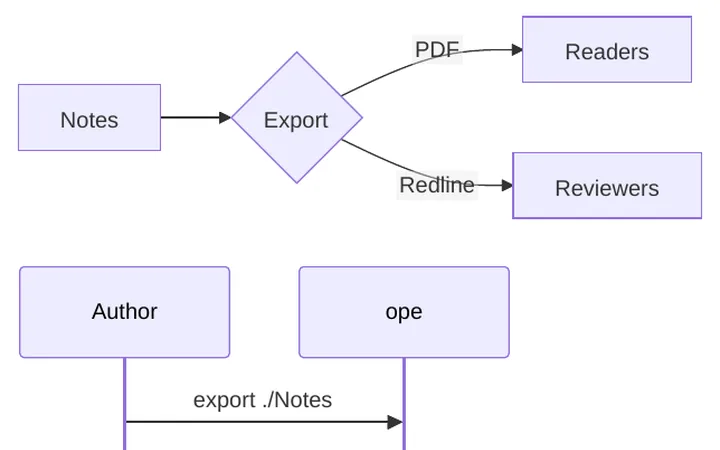
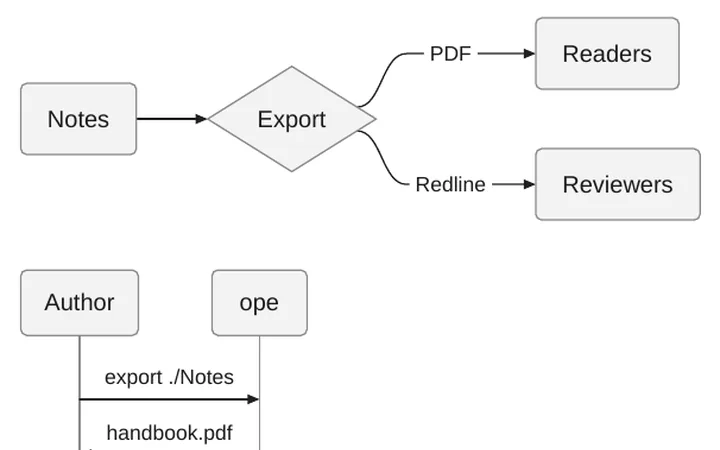
docs: describe Pele as the Mermaid renderer
Rewrite the Mermaid page around Pele, drop the renderer comparison and
its example, and add a short list of differences from mermaid.js. Remove
Node.js from the install, CI and contributing notes, the skill and the
README. Regenerate the CLI reference, llms.txt and the Mermaid
screenshots.

Refs #118

diff --git a/scripts/gen_cli_docs.py b/scripts/gen_cli_docs.py
@@ -61,7 +61,7 @@ ope export ./Vault/Handbook \\
   --version 3.1.0 --date 2026-05-07 \\
   --include "Chapter A" --include "Chapter B" \\
   --disable-plugin meta_bind \\
-  -O mermaid.theme=neutral -O tables.landscape=off""",
+  -O mermaid.landscape=off -O tables.landscape=off""",
     "redline": "ope redline ./Vault/Handbook --from-commit v3.0.0 --to-commit HEAD",
     "setup": "ope setup --check   # report only\nope setup --yes     # install without asking",
     "list-templates": "ope list-templates",
@@ -82,14 +82,7 @@ the template. These keys are read by ope itself:
 | `tables.landscape` | `auto`, `on`, `off` | `auto` | [Tables](../markdown/tables.md#wide-tables) |
 | `tables.landscape_min_cols` | number | `6` | [Tables](../markdown/tables.md#wide-tables) |
 | `mermaid` | `off` | on | [Mermaid](../obsidian/mermaid.md) |
-| `mermaid.renderer` | `mermaid-cli`, `pele` | `mermaid-cli` | [Mermaid](../obsidian/mermaid.md#renderers) |
-| `mermaid.format` | `svg`, `png` | `svg` | [Mermaid](../obsidian/mermaid.md#options) |
-| `mermaid.scale` | number | `3` | [Mermaid](../obsidian/mermaid.md#options) |
 | `mermaid.config` | path to JSON | none | [Mermaid](../obsidian/mermaid.md#options) |
-| `mermaid.theme` | Mermaid theme | none | [Mermaid](../obsidian/mermaid.md#options) |
-| `mermaid.cli` | command | auto | [Mermaid](../obsidian/mermaid.md#options) |
-| `mermaid.puppeteer_config` | path | none | [Mermaid](../obsidian/mermaid.md#options) |
-| `mermaid.trim` | `on`, `off` | `on` | [Mermaid](../obsidian/mermaid.md#options) |
 | `mermaid.max_height` | CSS length | none | [Mermaid](../obsidian/mermaid.md#options) |
 | `mermaid.landscape` | `on`, `off` | `on` | [Mermaid](../obsidian/mermaid.md#wide-diagrams) |
 | `mermaid.landscape_ratio` | number | `1.4` | [Mermaid](../obsidian/mermaid.md#wide-diagrams) |

diff --git a/scripts/render_examples.py b/scripts/render_examples.py
@@ -19,7 +19,7 @@ Run from the repository root:
     uv run python scripts/render_examples.py             # everything
     uv run python scripts/render_examples.py callouts    # some examples
 
-Needs ``pdftoppm`` (poppler) and, for the Mermaid example, Node.js. The
+Needs ``pdftoppm`` (poppler). The
 Redline screenshots come from ``scripts/render_redline_examples.py``.
 """
 
@@ -97,9 +97,6 @@ SETTINGS: dict[str, Example] = {
 #: Extra images made from an existing example folder with other settings.
 VARIANTS: dict[str, Example] = {
     "line-breaks-soft": Example(folder="line-breaks", args=["-O", "line_breaks=soft"]),
-    "mermaid-renderers-pele": Example(
-        folder="mermaid-renderers", args=["-O", "mermaid.renderer=pele"]
-    ),
 }
 
 

diff --git a/scripts/render_home.py b/scripts/render_home.py
@@ -20,7 +20,7 @@ output changed. Run from the repository root:
 
     uv run python scripts/render_home.py
 
-Needs ``pdftoppm`` (poppler) and Node.js for the Mermaid diagram.
+Needs ``pdftoppm`` (poppler).
 """
 
 from __future__ import annotations

diff --git a/docs/obsidian/mermaid.md b/docs/obsidian/mermaid.md
@@ -1,11 +1,11 @@
 ---
 title: Mermaid
-description: Mermaid code blocks rendered to SVG or PNG diagrams with mermaid-cli, or with Pele without Node.js.
+description: Mermaid code blocks drawn as SVG diagrams by Pele, inside ope, without Node.js or a browser.
 ---
 
 # Mermaid
 
-` ```mermaid ` blocks are drawn with [mermaid-cli](https://github.com/mermaid-js/mermaid-cli). ope uses `mmdc` if it is on the `PATH`, else `npx -y @mermaid-js/mermaid-cli@11.4.2` when Node.js is installed. Without either, the blocks stay code blocks and the export prints a warning. A block that fails to render also stays code. `-O mermaid.renderer=pele` draws the diagrams with [Pele](#renderers) instead, which needs no Node.js.
+` ```mermaid ` blocks are drawn as SVG by [Pele](https://pele.run), a Mermaid renderer in TypeScript by the Obsidian team. ope runs it in the JavaScript engine that also runs [DataviewJS](../plugins/dataview.md), so it needs no Node.js, npm or browser. It reads Mermaid 12.1 syntax and draws every diagram type Mermaid has, in a few milliseconds per diagram. A block Pele cannot draw, for example because of a syntax error, stays a code block and the export prints a line starting with `Warning:`.
 
 <div class="ope-example" markdown>
 <div markdown>
@@ -24,78 +24,35 @@ description: Mermaid code blocks rendered to SVG or PNG diagrams with mermaid-cl
 </div>
 </div>
 
-The default output is SVG, so text stays sharp and can be searched. Mermaid normally puts labels in HTML `<foreignObject>` elements, which WeasyPrint does not draw, so for SVG output ope always sets `htmlLabels: false`. Use PNG for a diagram type that needs HTML labels.
+The output is SVG, so text stays sharp and can be searched.
 
 ## Options
 
 | Option | Effect | Default |
 | ------ | ------ | ------- |
 | `-O mermaid=off` | Keep Mermaid blocks as code. | on |
-| `-O mermaid.renderer=mermaid-cli\|pele` | What draws the diagrams, see [Renderers](#renderers). | `mermaid-cli` |
-| `-O mermaid.format=svg\|png` | Output format. | `svg` |
-| `-O mermaid.scale=N` | Pixel density of PNG output. The image keeps its natural size. | `3` |
-| `-O mermaid.config=PATH` | JSON [Mermaid config](https://mermaid.js.org/config/schema-docs/config.html) (`theme`, `themeVariables`, ...). | none |
-| `-O mermaid.theme=NAME` | Shortcut for `theme`: `default`, `neutral`, `dark`, `forest`, `base`. | none |
-| `-O mermaid.cli=COMMAND` | Command that runs mermaid-cli. | auto |
-| `-O mermaid.puppeteer_config=PATH` | Puppeteer config passed as `-p`. | none |
-| `-O mermaid.trim=on\|off` | Trim the empty space around diagrams. | `on` |
+| `-O mermaid.config=PATH` | JSON [Mermaid config](https://mermaid.js.org/config/schema-docs/config.html), such as `themeVariables.fontSize`. | none |
 | `-O mermaid.max_height=LENGTH` | Largest height, such as `10cm`. Taller diagrams are scaled down. | none |
 | `-O mermaid.landscape=on\|off` | Put wide diagrams on landscape pages. | `on` |
 | `-O mermaid.landscape_ratio=R` | Width to height ratio from which a diagram that has to shrink goes to landscape. | `1.4` |
 | `-O mermaid.landscape_min_font=PT` | Smallest text size a diagram may shrink to on a portrait page before it goes to landscape, or to fit a tall diagram on one page. | `7` |
 | `-O mermaid.fit=on\|off` | Scale or split diagrams that are taller than the page. | `on` |
 
-A template can set a base config with the `mermaid` key in `template.yaml` or `Template.mermaid_config()`. `mermaid.config` is merged over it, then `mermaid.theme`.
+A template can set a base config with the `mermaid` key in `template.yaml` or `Template.mermaid_config()`. `mermaid.config` is merged over it.
 
 ```bash
 ope export ./Notes -O mermaid.config=mermaid.json
 ```
 
 ```json
-{ "theme": "base", "themeVariables": { "primaryColor": "#e8eef5", "pie1": "#2c5282" } }
+{ "themeVariables": { "fontSize": "14px", "fontFamily": "Georgia, serif" } }
 ```
 
-## Renderers
+Earlier versions drew diagrams with mermaid-cli, which needed Node.js and a headless Chromium. ope no longer uses it. Its options `mermaid.renderer`, `mermaid.theme`, `mermaid.format`, `mermaid.scale`, `mermaid.cli`, `mermaid.puppeteer_config` and `mermaid.trim` have no effect, and the export prints a warning when one is set. `mermaid.renderer=pele` is accepted without a warning.
 
-`-O mermaid.renderer` picks what draws the diagrams.
+## Colors and fonts
 
-- `mermaid-cli` (default) is Mermaid itself, run by Node.js in a headless Chromium. Diagrams look as they do in Obsidian.
-- `pele` is [Pele](https://pele.run), a Mermaid renderer in TypeScript by the Obsidian team. It reads Mermaid 12.1 syntax and draws every diagram type Mermaid has, with its own layout and style. ope runs it in the JavaScript engine that also runs [DataviewJS](../plugins/dataview.md), so it needs no Node.js, npm or browser, and it is much faster: a few milliseconds per diagram instead of seconds for a whole document.
-
-```bash
-ope export ./Notes -O mermaid.renderer=pele
-```
-
-The same note with both renderers:
-
-<div class="ope-example" markdown>
-<div markdown>
-<p class="ope-label">mermaid-cli</p>
-
-![A flowchart, a sequence diagram and a pie chart drawn by mermaid-cli](../img/features/mermaid-renderers.png)
-
-</div>
-<div markdown>
-<p class="ope-label">Pele</p>
-
-![The same diagrams drawn by Pele](../img/features/mermaid-renderers-pele.png)
-
-</div>
-</div>
-
-??? example "Markdown of the note"
-
-    ````markdown
-    --8<-- "examples/mermaid-renderers/mermaid-renderers.md"
-    ````
-
-Pele always writes SVG, so `mermaid.format`, `mermaid.scale`, `mermaid.cli` and `mermaid.puppeteer_config` only apply to mermaid-cli. Its SVG has an exact size with a margin of 8 px, so it needs no trimming pass. Wide and tall diagrams go to landscape pages or are scaled and cut as described below, as with mermaid-cli.
-
-A diagram Pele cannot draw, for example because of a syntax error or syntax it does not know, goes to mermaid-cli when Node.js or `mmdc` is installed. Otherwise it stays a code block and the export prints a line starting with `Warning:`.
-
-### Colors and fonts with Pele
-
-Pele draws with its own neutral style and ignores Mermaid themes (`theme`, `themeVariables`, `themeCSS`). Its colors are the CSS variables listed under [Theming](https://pele.run/theming), such as `--pele-fg`, `--pele-surface`, `--pele-border`, `--pele-line`, `--pele-accent` and `--pele-series-1` to `--pele-series-8`. WeasyPrint does not resolve CSS variables in SVG, so ope writes their values into the SVG. They come from the template's CSS:
+Pele draws with its own neutral style. Its colors are the CSS variables listed under [Theming](https://pele.run/theming), such as `--pele-fg`, `--pele-surface`, `--pele-border`, `--pele-line`, `--pele-accent` and `--pele-series-1` to `--pele-series-8`. WeasyPrint does not resolve CSS variables in SVG, so ope writes their values into the SVG. They come from the template's CSS:
 
 - The label font is the `font-family` of `body`, the monospace font the one of `code` or `pre`, and the text color the `color` of `body`. Diagrams use the font of the document.
 - `themeVariables.fontFamily` in the Mermaid config sets the label font too.
@@ -112,13 +69,23 @@ Pele draws with its own neutral style and ignores Mermaid themes (`theme`, `them
 
 Pele needs the width of every label to lay a diagram out. ope measures them with Pango, the text engine WeasyPrint uses, in the font of the PDF, so labels fit their boxes in any font.
 
-The Pele build is part of ope (version 1.6.0, MIT license, see the license header of `obsidian_pdf_exporter/core/assets/pele.js`). `scripts/update_pele.py` in the repository replaces it with another version and checks it against the hash the npm registry publishes. Pele's links and images are turned off.
+## Differences from Mermaid
+
+Pele reads the same syntax as Mermaid, but it is not mermaid.js. A diagram can look different from the one in Obsidian:
+
+- Pele has its own layout, so boxes and lines can be placed differently.
+- Mermaid themes (`theme`, `themeVariables` colors, `themeCSS`) and `%%{init}%%` theme settings are not used. Map colors with `--pele-*` variables in the template instead, see [Colors and fonts](#colors-and-fonts).
+- `layout: elk` is not used. Pele always lays a diagram out on its own.
+- Links and images in diagrams are turned off.
+- `<br>` and `</br>` both break a label into lines.
+
+The Pele build is part of ope (version 1.6.0, MIT license, see the license header of `obsidian_pdf_exporter/core/assets/pele.js`). `scripts/update_pele.py` in the repository replaces it with another version and checks it against the hash the npm registry publishes. CI checks that the stored build is the pinned one.
 
 ## Diagram size
 
 A diagram keeps its natural size and only shrinks when it is wider than the text. `mermaid.max_height` scales down taller ones. Other sizes belong in the template's CSS: every diagram has the classes `doc-image`, `mermaid` and `mermaid-<type>`, see [CSS reference](../templating/css-reference.md#mermaid-diagrams).
 
-Mermaid leaves empty space around some diagram types. ope trims it to a margin of 8 px. PNG images are cropped. For SVG, mermaid-cli renders a second, transparent PNG of each diagram at its natural size to find the visible area, strokes included, and ope shrinks the `viewBox`. That takes a few seconds, `-O mermaid.trim=off` skips it.
+Pele gives every diagram an exact size with a margin of 8 px, so there is no empty space to trim.
 
 `%%` comment lines in a block are removed before rendering.
 
@@ -176,11 +143,4 @@ A diagram taller than the page would run past the bottom margin. ope keeps every
 </div>
 </div>
 
-Every part holds the whole drawing and shows only its band of it, so a search in the PDF also finds the text of the hidden bands. PNG diagrams cannot be cut and are always scaled. Fitting needs a second layout of the document, which only runs when a diagram is too tall. `-O mermaid.fit=off` turns it off, `mermaid.max_height` gives all diagrams a smaller limit.
-
-## Notes on mermaid-cli
-
-- WeasyPrint clips text centered in a semi-transparent group. Gantt axis labels are drawn that way, so ope adds `.grid .tick { opacity: 1 }` to the `themeCSS` of SVG diagrams.
-- Wrapped labels in timeline diagrams carry a line offset twice. ope removes the outer one, so the text stays in its box.
-- Flowchart edge labels use `edgeLabelBackground`. With the `base` theme it can look purple. Set `themeVariables.edgeLabelBackground` to change it.
-- When running as root (in a CI container), Chromium needs `--no-sandbox`. ope passes it in that case.
+Every part holds the whole drawing and shows only its band of it, so a search in the PDF also finds the text of the hidden bands. Fitting needs a second layout of the document, which only runs when a diagram is too tall. `-O mermaid.fit=off` turns it off, `mermaid.max_height` gives all diagrams a smaller limit.

diff --git a/skills/obsidian-pdf-exporter/SKILL.md b/skills/obsidian-pdf-exporter/SKILL.md
@@ -31,7 +31,7 @@ On Windows PowerShell:
 powershell -ExecutionPolicy ByPass -c "irm https://uvx.sh/obsidian-pdf-exporter/install.ps1 | iex; ope setup --yes"
 ```
 
-`ope setup` uses the platform package manager (apt, dnf, pacman, zypper, apk, brew, winget) and may need sudo. If it cannot install, report the command it printed to the user instead of working around it. Mermaid diagrams also need Node.js (`npx`) or `mmdc`; without them Mermaid blocks stay code.
+`ope setup` uses the platform package manager (apt, dnf, pacman, zypper, apk, brew, winget) and may need sudo. If it cannot install, report the command it printed to the user instead of working around it. Mermaid diagrams need nothing else: they are drawn by Pele inside ope.
 
 ## Export
 
@@ -40,14 +40,14 @@ ope export ./Vault/Handbook                       # -> ./.export/Handbook.pdf
 ope export ./Vault/Handbook -o out/handbook.pdf \
   --title "Team handbook" --subtitle "How we work" --version 1.2.0 --date 2026-04-01
 ope export ./Vault/Handbook --include "Part A" --exclude Drafts --no-toc
-ope export ./Vault/Handbook -O tables.landscape=off -O mermaid.theme=neutral
+ope export ./Vault/Handbook -O tables.landscape=off -O mermaid.landscape=off
 ope export ./Vault/Handbook --disable-plugin dataview
 ```
 
 - `ROOT` is a folder. Every subfolder becomes a numbered section, and `Folder/Folder.md` (the folder note) is its text. `ROOT/ROOT.md` is the first text. To export a single note, put it in its own folder named like the note.
 - Links and embeds are looked up in the whole vault (the folder with `.obsidian`, else the git root).
 - Without `--version`, a folder in a git repository shows the short commit hash as version.
-- Other `-O` keys: `line_breaks=hard|soft`, `links.outside=text|italic`, `footnotes=page|end`, `mermaid=off`, `mermaid.renderer=mermaid-cli|pele`, `mermaid.format=svg|png`, `mermaid.landscape=off`, `excalidraw.auto_export=off`, `citations.bibliography=refs.bib`, `citations.csl=style.csl`, `tables.landscape_min_cols=N`. List: https://spenhouet.com/obsidian-pdf-exporter/reference/cli/
+- Other `-O` keys: `line_breaks=hard|soft`, `links.outside=text|italic`, `footnotes=page|end`, `mermaid=off`, `mermaid.config=mermaid.json`, `mermaid.landscape=off`, `excalidraw.auto_export=off`, `citations.bibliography=refs.bib`, `citations.csl=style.csl`, `tables.landscape_min_cols=N`. List: https://spenhouet.com/obsidian-pdf-exporter/reference/cli/
 - Exit codes: `0` ok, `1` export failed, `2` bad arguments (for example an unknown template).
 
 Lines starting with `Warning:` name content that could not be rendered: an embed that was not found, a canvas embed or a PDF that cannot be opened (kept as a link), a plugin code block nobody renders (`tasks`, `ad-note`, ...), a Dataview query or DataviewJS script that failed. `Warning: link to "Note" ... points outside the PDF, kept as text` names a link to a note that is not part of the PDF; it is plain text in the PDF (`-O links.outside=italic` shows it in italics). Report them to the user.

diff --git a/docs/reference/cli.md b/docs/reference/cli.md
@@ -120,7 +120,7 @@ ope export ./Vault/Handbook \
   --version 3.1.0 --date 2026-05-07 \
   --include "Chapter A" --include "Chapter B" \
   --disable-plugin meta_bind \
-  -O mermaid.theme=neutral -O tables.landscape=off
+  -O mermaid.landscape=off -O tables.landscape=off
 ```
 
 ## `redline`
@@ -168,14 +168,7 @@ the template. These keys are read by ope itself:
 | `tables.landscape` | `auto`, `on`, `off` | `auto` | [Tables](../markdown/tables.md#wide-tables) |
 | `tables.landscape_min_cols` | number | `6` | [Tables](../markdown/tables.md#wide-tables) |
 | `mermaid` | `off` | on | [Mermaid](../obsidian/mermaid.md) |
-| `mermaid.renderer` | `mermaid-cli`, `pele` | `mermaid-cli` | [Mermaid](../obsidian/mermaid.md#renderers) |
-| `mermaid.format` | `svg`, `png` | `svg` | [Mermaid](../obsidian/mermaid.md#options) |
-| `mermaid.scale` | number | `3` | [Mermaid](../obsidian/mermaid.md#options) |
 | `mermaid.config` | path to JSON | none | [Mermaid](../obsidian/mermaid.md#options) |
-| `mermaid.theme` | Mermaid theme | none | [Mermaid](../obsidian/mermaid.md#options) |
-| `mermaid.cli` | command | auto | [Mermaid](../obsidian/mermaid.md#options) |
-| `mermaid.puppeteer_config` | path | none | [Mermaid](../obsidian/mermaid.md#options) |
-| `mermaid.trim` | `on`, `off` | `on` | [Mermaid](../obsidian/mermaid.md#options) |
 | `mermaid.max_height` | CSS length | none | [Mermaid](../obsidian/mermaid.md#options) |
 | `mermaid.landscape` | `on`, `off` | `on` | [Mermaid](../obsidian/mermaid.md#wide-diagrams) |
 | `mermaid.landscape_ratio` | number | `1.4` | [Mermaid](../obsidian/mermaid.md#wide-diagrams) |

diff --git a/docs/templating/folders.md b/docs/templating/folders.md
@@ -48,9 +48,8 @@ running_html: header.html        # HTML put right after <body>
 page_css: page.css               # CSS put into <head> after the template CSS
 assets: [logo.svg, fonts/Inter.woff2]  # default: every other file in the folder
 mermaid:                         # base Mermaid config for diagrams
-  theme: base
   themeVariables:
-    primaryColor: "#e8eef5"
+    fontSize: 14px
 ```
 
 | Key | Default | Meaning |
@@ -61,7 +60,7 @@ mermaid:                         # base Mermaid config for diagrams
 | `running_html` | none | HTML for the running header and footer. It is put right after `<body>`, so its elements can be moved into margin boxes. |
 | `page_css` | none | CSS for the page: `@page` rules and running elements. |
 | `assets` | every file in the folder that is not CSS, YAML, HTML or Markdown, plus a sibling `assets/` folder | Files copied into the build folder next to the CSS. |
-| `mermaid` | none | Base [Mermaid config](../obsidian/mermaid.md#options). `-O mermaid.config` and `-O mermaid.theme` are merged over it. |
+| `mermaid` | none | Base [Mermaid config](../obsidian/mermaid.md#options). `-O mermaid.config` is merged over it. Colors of diagrams come from `--pele-*` variables in the CSS. |
 
 Without `running_html` and `page_css` the template has no header or footer. The `default` header and footer come from Python and are not part of a folder template. A folder template that should have them writes them in `page.css`, as in the [recipes](recipes.md).
 

diff --git a/docs/templating/python.md b/docs/templating/python.md
@@ -32,7 +32,7 @@ class MyTemplate(Template):
 | `get_css()` | Before the export, without context | The CSS source. Written to `<build>/<name>.css`. |
 | `assets()` | Before the export | Files written into the build folder, for relative `url(...)` in the CSS. |
 | `decorations(ctx)` | After the HTML hooks | Running header and footer HTML and page CSS. `None` for none. |
-| `mermaid_config(ctx)` | Before Mermaid runs | Base Mermaid config. `-O mermaid.config` and `-O mermaid.theme` are merged over it. |
+| `mermaid_config(ctx)` | Before Mermaid runs | Base Mermaid config. `-O mermaid.config` is merged over it. |
 | `process_markdown(content, ctx)` | Right before pandoc | The assembled Markdown of the whole document, after all steps and plugins. |
 | `process_html(html, ctx)` | After pandoc and the HTML steps | The full HTML document, before decorations. |
 

diff --git a/docs/getting-started/installation.md b/docs/getting-started/installation.md
@@ -76,7 +76,6 @@ When WeasyPrint still cannot find the libraries, set `OBSIDIAN_PDF_GTK_PATH` to 
 | Tool | Needed for |
 | ---- | ---------- |
 | git | [Redline](../redline/index.md), the version label from the commit hash, and the vault root for Dataview. |
-| Node.js (`npx`) or `mmdc` | [Mermaid](../obsidian/mermaid.md) diagrams with mermaid-cli, the default renderer. Without it, Mermaid blocks stay code blocks. `-O mermaid.renderer=pele` draws them without Node.js. |
 
 ## In CI
 
@@ -100,7 +99,7 @@ jobs:
           path: handbook.pdf
 ```
 
-Mermaid diagrams need Node.js on the runner, which `ubuntu-latest` has. On a runner without it, add `-O mermaid.renderer=pele`.
+[Mermaid](../obsidian/mermaid.md) diagrams are drawn inside ope, so the runner needs no Node.js or browser.
 
 ## Check the install
 

diff --git a/README.md b/README.md
@@ -44,7 +44,7 @@ curl -LsSf uvx.sh/obsidian-pdf-exporter/install.sh | sh && ope setup --yes
 powershell -ExecutionPolicy ByPass -c "irm https://uvx.sh/obsidian-pdf-exporter/install.ps1 | iex; ope setup --yes"
 ```
 
-`ope setup` installs the native libraries WeasyPrint needs and pandoc. See [Installation](https://spenhouet.com/obsidian-pdf-exporter/getting-started/installation/) for every OS, uv, pip and CI.
+`ope setup` installs the native libraries WeasyPrint needs and pandoc. Mermaid diagrams are drawn inside ope, so Node.js and a browser are not needed. See [Installation](https://spenhouet.com/obsidian-pdf-exporter/getting-started/installation/) for every OS, uv, pip and CI.
 
 ## Quick start
 

diff --git a/CONTRIBUTING.md b/CONTRIBUTING.md
@@ -601,8 +601,8 @@ Generated content:
   from the example vault in `examples/`. Each folder there (not starting
   with `_`) is one example and becomes `docs/img/features/<folder>.png`.
   Run `uv run python scripts/render_examples.py [name ...]` after a change
-  that affects the output. It needs `pdftoppm` (poppler) and Node.js for
-  Mermaid. Commit the images.
+  that affects the output. It needs `pdftoppm` (poppler). Commit the
+  images.
 - `docs/img/redline/*.png` come from `examples/_redline/`. Each case
   folder there holds a `before/` and an `after/` version of a small vault.
   `uv run python scripts/render_redline_examples.py [case ...]` commits both

diff --git a/docs/templating/debugging.md b/docs/templating/debugging.md
@@ -66,4 +66,4 @@ pdfinfo handbook.pdf                                        # page count and pag
 | Wide tables have other margins | The template changed `@page` but not `@page landscape-page`. |
 | A table leaves a big gap | `break-inside: avoid` is set on `table`. Put it on `tr`. |
 | An image jumps to the next page | Images cannot be split. Limit the size with `max-height`. |
-| Mermaid blocks stay code | Neither `mmdc` nor `npx` was found. Install Node.js or mermaid-cli. |
+| A Mermaid block stays code | Pele could not draw it, for example because of a syntax error. The `Warning:` line of the export names the diagram type and the error. |
